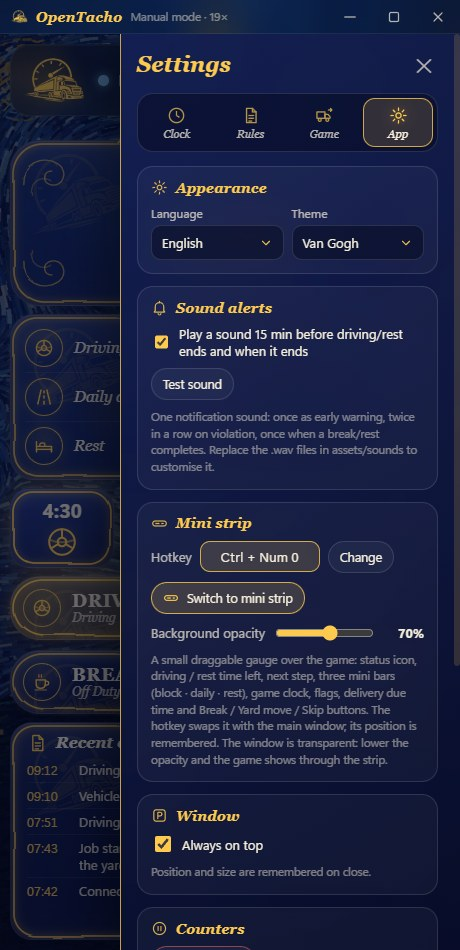
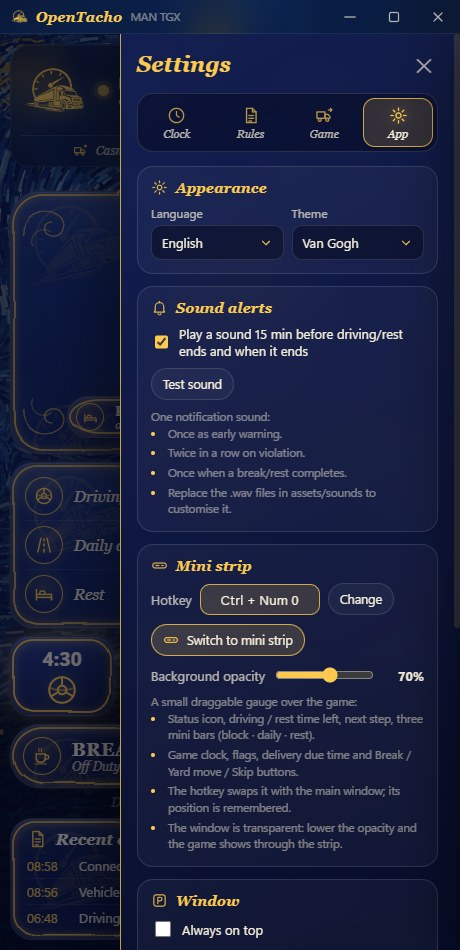
Tour and settings hints as structured lists; settings screenshots retaken
- Every guided-tour step and the longer settings hints (recommended setup, skip,
  off-job, mini strip, sounds, split rest/break, time zone) are now lead line +
  bulleted/numbered items instead of one dense paragraph, in all five languages.
- Tour body is a div so lists render; list markers styled in the theme colour.
- settings-rules.jpg / settings-app.jpg retaken for every language.

diff --git a/app/main.html b/app/main.html
@@ -365,8 +365,15 @@
   .tour-x { background: none; border: 0; color: var(--muted); cursor: pointer; font: inherit; font-size: 12px; padding: 2px 4px; }
   .tour-x:hover { color: var(--gold); }
   .tour-card h4 { margin: 0; font-family: var(--serif); font-style: var(--italic); color: var(--gold); font-size: 19px; }
-  .tour-card p { margin: 0; color: var(--text); font-size: 13.5px; line-height: 1.5; }
-  .tour-card p b { color: var(--gold); font-weight: 600; }
+  .tour-card p, .tour-card .tbody { margin: 0; color: var(--text); font-size: 13.5px; line-height: 1.5; }
+  .tour-card p b, .tour-card .tbody b { color: var(--gold); font-weight: 600; }
+  /* rehber ve ipuçlarındaki maddeler */
+  .tour-card .tbody ul, .tour-card .tbody ol, .hint ul, .hint ol { margin: 6px 0 0; padding-left: 1.3em; display: grid; gap: 4px; }
+  .tour-card .tbody ul:first-child, .tour-card .tbody ol:first-child, .hint ul:first-child, .hint ol:first-child { margin-top: 0; }
+  .tour-card .tbody li, .hint li { padding-left: 2px; }
+  .tour-card .tbody li::marker, .hint li::marker { color: var(--gold); font-weight: 600; }
+  .hint ul, .hint ol { gap: 3px; margin-top: 4px; }
+  .hint b { color: var(--muted); font-weight: 600; }
   .tour-dots { display: flex; gap: 4px; flex-wrap: wrap; }
   .tour-dots i { width: 6px; height: 6px; border-radius: 50%; background: var(--line); }
   .tour-dots i.on { background: var(--gold); box-shadow: 0 0 6px var(--gold); }
@@ -626,7 +633,7 @@
       <div class="row">
         <button class="sm" id="tzMinus" data-i18n="ui.tz.minus">−1 sa</button><button class="sm" id="tzPlus" data-i18n="ui.tz.plus">+1 sa</button><button class="sm" id="tzZero" data-i18n="ui.tz.reset">Sıfırla</button>
       </div>
-      <div class="hint" data-i18n="ui.hint.tz"></div>
+      <div class="hint" data-i18n-html="ui.hint.tz"></div>
     </div>
   </div>
 
@@ -643,7 +650,7 @@
       <h4><i class="ic" data-ic="cup"></i><span data-i18n="ui.sec.split_break">Bölünmüş mola (15 + 30)</span></h4>
       <label class="check"><input type="checkbox" id="splitBreak"> <span data-i18n="ui.split_break"></span></label>
       <div class="kv" id="part1bText" hidden></div>
-      <div class="hint" data-i18n="ui.hint.split_break"></div>
+      <div class="hint" data-i18n-html="ui.hint.split_break"></div>
     </div>
 
     <div class="sec auto-only">
@@ -654,7 +661,7 @@
 
     <div class="sec auto-only">
       <h4><i class="ic" data-ic="nojob"></i><span data-i18n="ui.sec.offjob">Görev dışı</span></h4>
-      <div class="hint" data-i18n="ui.hint.offjob"></div>
+      <div class="hint" data-i18n-html="ui.hint.offjob"></div>
       <label class="check"><input type="checkbox" id="offjobRest"> <span data-i18n="ui.offjob_rest">Görev dışındayken dinlenme yine sayılsın</span></label>
     </div>
 
@@ -699,7 +706,7 @@
       <h4><i class="ic" data-ic="bell"></i><span data-i18n="ui.sec.sounds">Sesli uyarı</span></h4>
       <label class="check"><input type="checkbox" id="sounds"> <span id="soundsText"></span></label>
       <div class="row"><button class="sm" id="soundTest" data-i18n="ui.sound_test">Sesi dene</button></div>
-      <div class="hint" data-i18n="ui.hint.sounds"></div>
+      <div class="hint" data-i18n-html="ui.hint.sounds"></div>
     </div>
 
     <div class="sec">
@@ -712,7 +719,7 @@
       <div class="row"><button class="sm primary" id="miniOpen"><i class="ic" data-ic="strip"></i><span data-i18n="ui.mini_open">Mini şeride geç</span></button></div>
       <div class="row range"><label for="miniOpacity" data-i18n="ui.mini_opacity">Arka plan yoğunluğu</label><input type="range" id="miniOpacity" min="30" max="100" step="5"><b id="miniOpacityVal">70%</b></div>
       <div class="mini-preview" id="miniPreview" hidden><iframe id="miniPreviewFrame" title="" tabindex="-1"></iframe></div>
-      <div class="hint" data-i18n="ui.hint.mini"></div>
+      <div class="hint" data-i18n-html="ui.hint.mini"></div>
     </div>
 
     <div class="sec">
@@ -766,7 +773,7 @@
   <div class="tour-card glass ornate" id="tourCard">
     <div class="tour-head"><span id="tourN"></span><button class="tour-x" id="tourSkip"></button></div>
     <h4 id="tourTitle"></h4>
-    <p id="tourBody"></p>
+    <div class="tbody" id="tourBody"></div>
     <div class="tour-dots" id="tourDots"></div>
     <div class="tour-nav"><button class="sm" id="tourPrev"></button><button class="sm primary" id="tourNext"></button></div>
   </div>
@@ -1012,7 +1019,7 @@
       const en = !!(st.split && st.split.enabled);
       $("splitOn").classList.toggle("on", en);
       $("splitOff").classList.toggle("on", !en);
-      $("splitHint").textContent = (en ? T("ui.hint.split_on") : T("ui.hint.split_off")) + (st.split_locked ? T("ui.hint.split_locked") : "");
+      $("splitHint").innerHTML = (en ? T("ui.hint.split_on") : T("ui.hint.split_off")) + (st.split_locked ? `<div>${T("ui.hint.split_locked")}</div>` : "");
       $("splitOff").disabled = !!st.split_locked;
       $("splitOff").title = st.split_locked ? T("ui.split.locked_title") : "";
       $("offjobRest").checked = !!st.offjob_rest;
